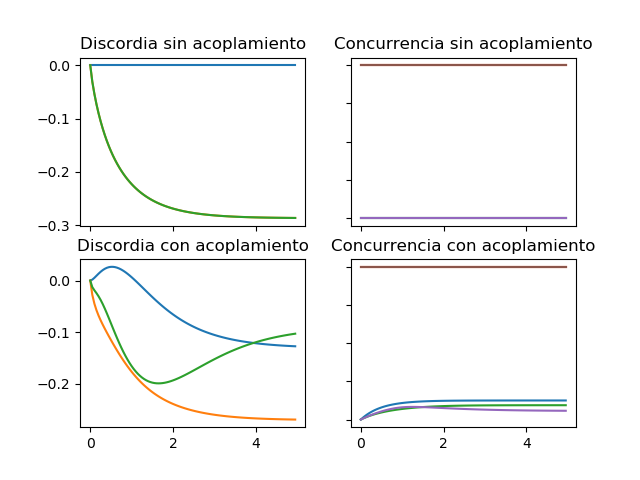
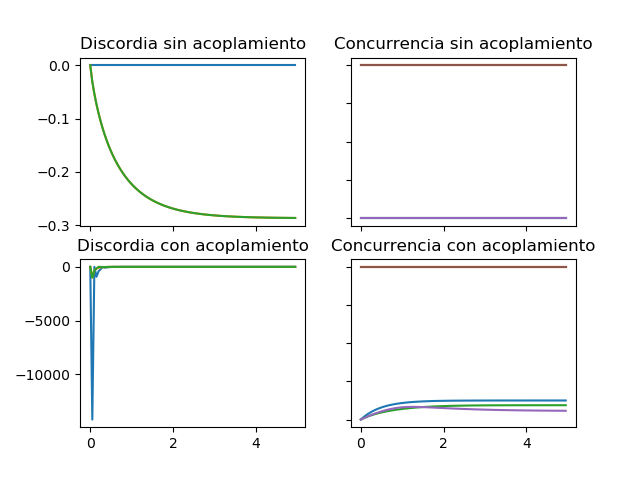
Cambio generado con script

diff --git a/master.py b/master.py
@@ -39,11 +39,11 @@ def me3(IN,RES):
     def entropy_opt(a):
         ent_comp=[0 for i in range(4)]
         if a.matrix_element(tensor(basis(2,0)),tensor(basis(2,0)))+a.matrix_element(tensor(basis(2,1)),tensor(basis(2,1)))==0:
-           ent_comp[0]=1
-           ent_comp[1]=1
+           ent_comp[0]=0
+           ent_comp[1]=0
         elif a.matrix_element(tensor(basis(2,0)),tensor(basis(2,1)))+a.matrix_element(tensor(basis(2,1)),tensor(basis(2,0)))==0:
-           ent_comp[0]=1
-           ent_comp[1]=1
+           ent_comp[0]=0
+           ent_comp[1]=0
         else:
            ent_comp[0]=entropy_cond(a.matrix_element(tensor(basis(2,0),basis(2,1)).dag(),tensor(basis(2,0),basis(2,1)))+a.matrix_element(tensor(basis(2,1),basis(2,1)).dag(),tensor(basis(2,1),basis(2,1))),a.matrix_element(tensor(basis(2,0),basis(2,0)).dag(),tensor(basis(2,0),basis(2,0)))+a.matrix_element(tensor(basis(2,1),basis(2,0)).dag(),tensor(basis(2,1),basis(2,0))),(a.matrix_element(tensor(basis(2,0),basis(2,1)).dag(),tensor(basis(2,0),basis(2,1)))-a.matrix_element(tensor(basis(2,1),basis(2,1)).dag(),tensor(basis(2,1),basis(2,1))))/(a.matrix_element(tensor(basis(2,0),basis(2,0)).dag(),tensor(basis(2,0),basis(2,0)))+a.matrix_element(tensor(basis(2,1),basis(2,0)).dag(),tensor(basis(2,1),basis(2,0)))),(a.matrix_element(tensor(basis(2,0),basis(2,0)).dag(),tensor(basis(2,0),basis(2,0)))-a.matrix_element(tensor(basis(2,1),basis(2,0)).dag(),tensor(basis(2,1),basis(2,0))))/(a.matrix_element(tensor(basis(2,0),basis(2,1)).dag(),tensor(basis(2,0),basis(2,1)))+a.matrix_element(tensor(basis(2,1),basis(2,1)).dag(),tensor(basis(2,1),basis(2,1)))))
            ent_comp[1]=entropy_cond(a.matrix_element(tensor(basis(2,0),basis(2,0)).dag(),tensor(basis(2,0),basis(2,0)))+a.matrix_element(tensor(basis(2,1),basis(2,0)).dag(),tensor(basis(2,1),basis(2,0))),a.matrix_element(tensor(basis(2,0),basis(2,1)).dag(),tensor(basis(2,0),basis(2,1)))+a.matrix_element(tensor(basis(2,1),basis(2,1)).dag(),tensor(basis(2,1),basis(2,1))),(a.matrix_element(tensor(basis(2,0),basis(2,0)).dag(),tensor(basis(2,0),basis(2,0)))-a.matrix_element(tensor(basis(2,1),basis(2,0)).dag(),tensor(basis(2,1),basis(2,0))))/(a.matrix_element(tensor(basis(2,0),basis(2,1)).dag(),tensor(basis(2,0),basis(2,1)))+a.matrix_element(tensor(basis(2,1),basis(2,1)).dag(),tensor(basis(2,1),basis(2,1)))),(a.matrix_element(tensor(basis(2,0),basis(2,1)).dag(),tensor(basis(2,0),basis(2,1)))-a.matrix_element(tensor(basis(2,1),basis(2,1)).dag(),tensor(basis(2,1),basis(2,1))))/(a.matrix_element(tensor(basis(2,0),basis(2,0)).dag(),tensor(basis(2,0),basis(2,0)))+a.matrix_element(tensor(basis(2,1),basis(2,0)).dag(),tensor(basis(2,1),basis(2,0)))))
@@ -54,7 +54,7 @@ def me3(IN,RES):
     for i in range (0,100):
         mat=Qobj(sol.states[i])
         conc[i]=concurrence(mat),4
-        disc[i]=-entropy_vn(mat)+entropy_vn(mat.ptrace(0))#+entropy_opt(mat)
+        disc[i]=-entropy_vn(mat)+entropy_vn(mat.ptrace(0))+entropy_opt(mat)
     out=[conc,disc]
     return out
 
